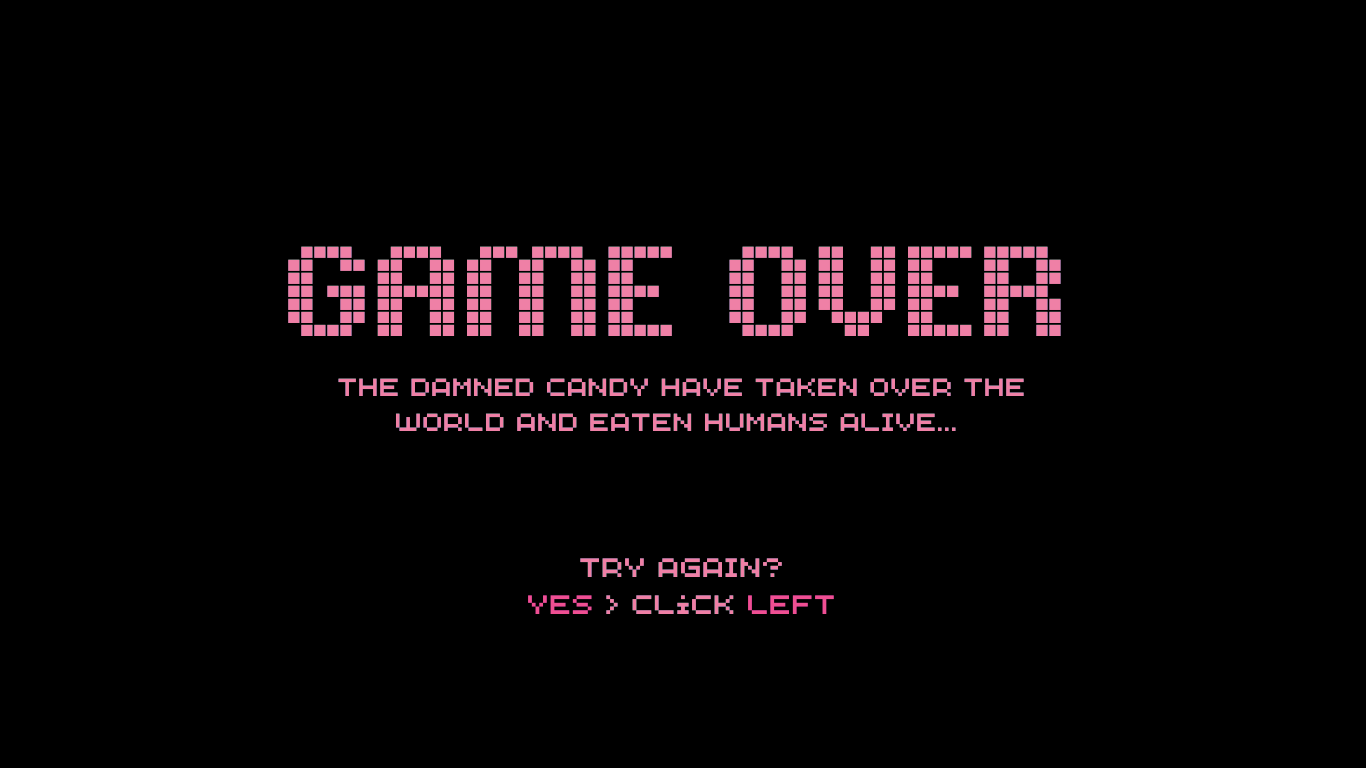
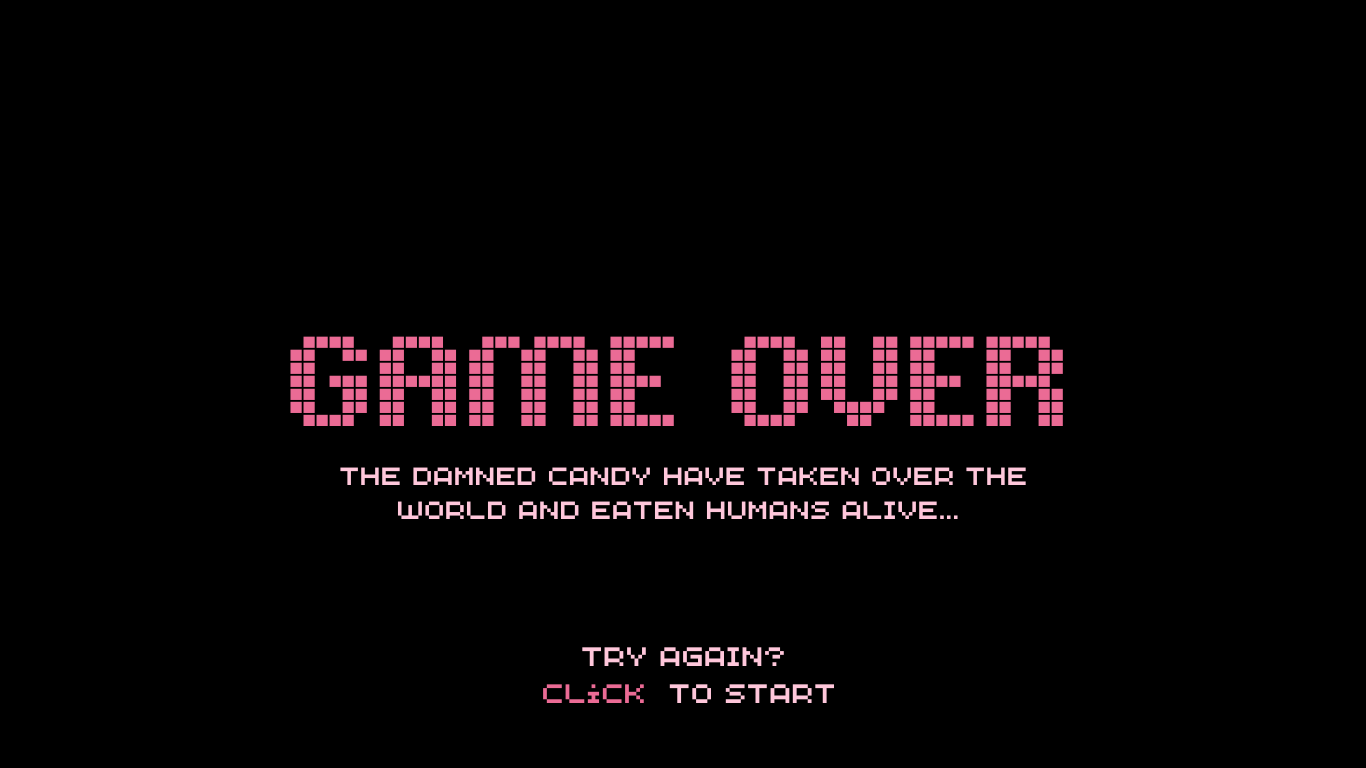
almost finished

diff --git a/madeBy.js b/madeBy.js
@@ -5,21 +5,17 @@ class madeBy extends Phaser.Scene {
     }
 
     preload () {
-        this.load.audio('theme', 'sounds/gameTheme.mp3');
+        this.load.audio('miau', 'sounds/miau.mp3');
         this.load.image('made', 'img/made.png');
         this.load.audio('click','sounds/click.wav' );
     }
     create(){
-        //Music
-        // gameState.theme = this.sound.add('theme');
-        // gameState.theme.loop = true;
-        // gameState.theme.play()
         this.madeBy = this.add.image(600, 450, 'made').setScale(1.05);
+        let miau = this.sound.add('miau');
     
         this.input.on('pointerup', () => {
-            this.scene.stop('madeBy');
-            let click = this.sound.add('click');
-            click.play();
+            miau.play()
+            this.scene.stop('story');
             this.scene.start('StartScene');
         });
     }

diff --git a/StartScene.js b/StartScene.js
@@ -14,7 +14,7 @@ class StartScene extends Phaser.Scene {
         gameState.theme = this.sound.add('theme');
         gameState.theme.loop = true;
         gameState.theme.play()
-        this.startScreen = this.add.image(600, 350, 'start').setScale(1.05);
+        this.startScreen = this.add.image(600, 450, 'start').setScale(0.8);
     
         this.input.on('pointerup', () => {
             this.scene.stop('StartScene');

diff --git a/EndingScene.js b/EndingScene.js
@@ -9,7 +9,7 @@ class EndingScene extends Phaser.Scene {
         this.load.audio('click','sounds/click.wav' );
     }
     create(){
-        this.add.image(620, 450, 'end').setScale(1.2);
+        this.add.image(620, 380, 'end').setScale(1.2);
         let over = this.sound.add('over');
         over.play();
 

diff --git a/game.js b/game.js
@@ -17,7 +17,7 @@ const config = {
 			debug: false,
 		}
 	},
-  scene: [LevelClear, madeBy, StartScene, GameScene, EndingScene] //test
+  scene: [madeBy, StartScene, GameScene, EndingScene, LevelClear] //test
 }
 
 const game = new Phaser.Game(config)

diff --git a/index.html b/index.html
@@ -3,7 +3,6 @@
 <head>
     <meta charset="UTF-8" />
     <title>First Project</title>
-    //<link rel="preload" as="font" href="assets/Custom-Font.ttf" type="font/ttf" />
     <style>
       canvas {
         display: block;
